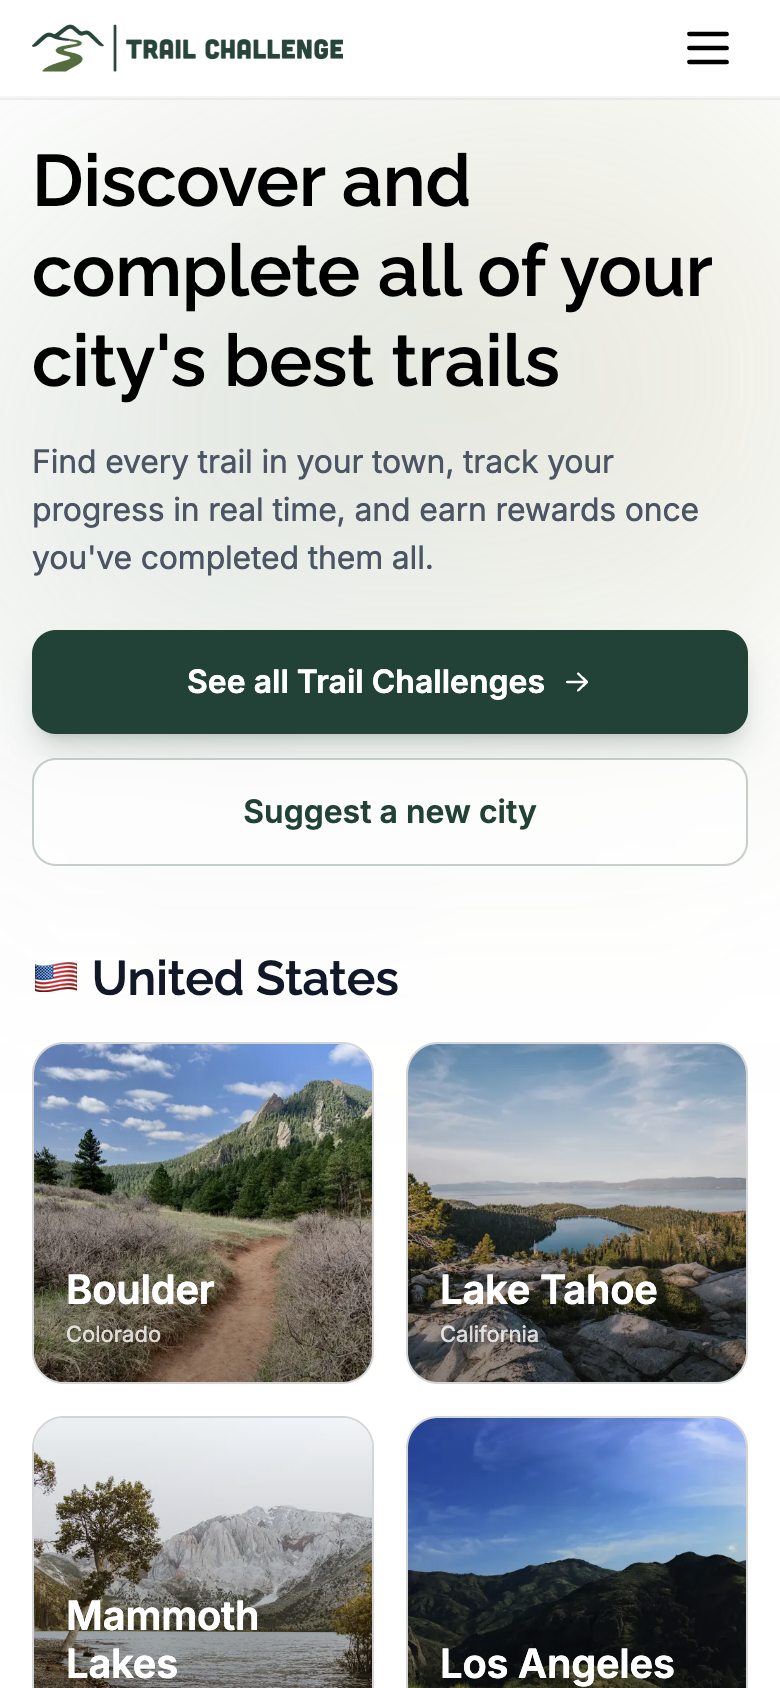
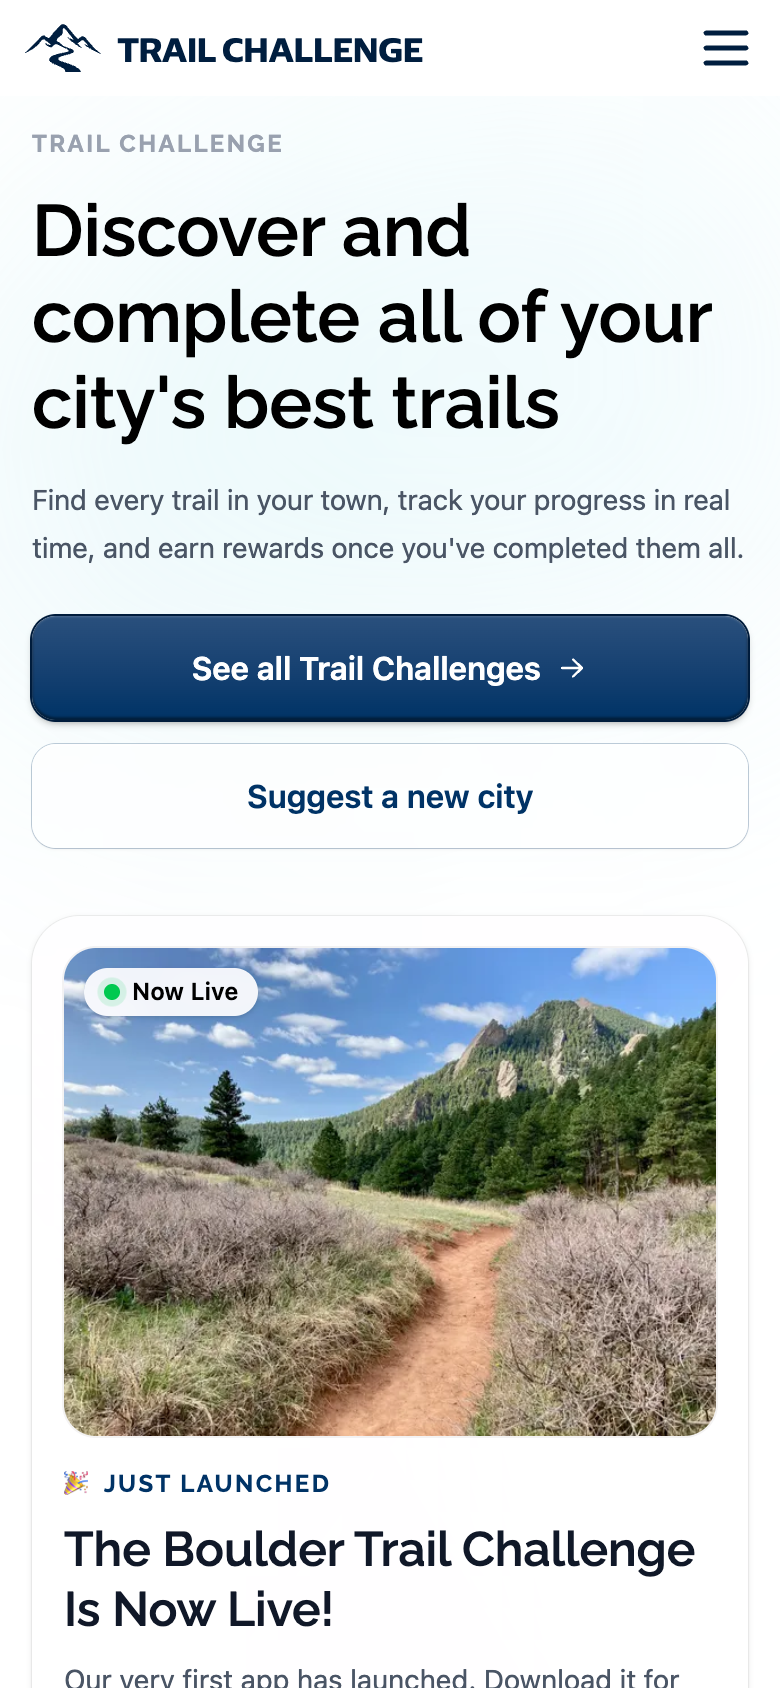
feat(projects): add camberwell co. and refresh trail challenge screenshot

diff --git a/app/projects/page.tsx b/app/projects/page.tsx
@@ -7,6 +7,7 @@ import JsonLd from "src/components/seo/JsonLd";
 import Section from "src/components/Section";
 import { projectsItemListSchema } from "src/lib/structuredData";
 import backyardImg from "public/static/img/backyard.png";
+import camberwellImg from "public/static/img/camberwell.png";
 import comedyFyiImg from "public/static/img/comedyFyi.png";
 import firesideImg from "public/static/img/fireside.png";
 import omurrayDevImg from "public/static/img/omurrayDev.png";
@@ -16,13 +17,22 @@ import trailchallengeImg from "public/static/img/trailchallenge.png";
 export const metadata: Metadata = {
   title: "Projects",
   description:
-    "A selection of products and side projects Oliver has built - Trail Challenge, comedy.fyi, Backyard, Fireside, and more.",
+    "A selection of products and side projects Oliver has built - Camberwell Co., Trail Challenge, comedy.fyi, Backyard, Fireside, and more.",
   alternates: {
     canonical: "/projects",
   },
 };
 
 const items: ProjectItemModel[] = [
+  {
+    paragraphs: [
+      "You run your business. We help it succeed online.",
+      "Camberwell Co. brings e-commerce and software expertise to businesses as a subscription, and builds software around the way they work.",
+    ],
+    technologies: ["Astro", "TypeScript", "Tailwind", "Cloudflare"],
+    url: "https://camberwellcompany.com",
+    imagePath: camberwellImg,
+  },
   {
     paragraphs: [
       "Discover and complete all of your city's best trails.",

diff --git a/app/projects/ProjectItem.tsx b/app/projects/ProjectItem.tsx
@@ -35,7 +35,7 @@ const ProjectItem = ({
           >
             <AnimateFadeIn duration={0.35}>
               <h3 className="overflow-hidden text-ellipsis box-border font-mono text-lg leading-tight lg:text-xl underline decoration-primary-700 decoration-1 hover:decoration-primary-800 transition-[color,text-decoration] duration-300 ease">
-                {url}
+                {url.replace(/^https:\/\//, "")}
               </h3>
             </AnimateFadeIn>
           </Link>
